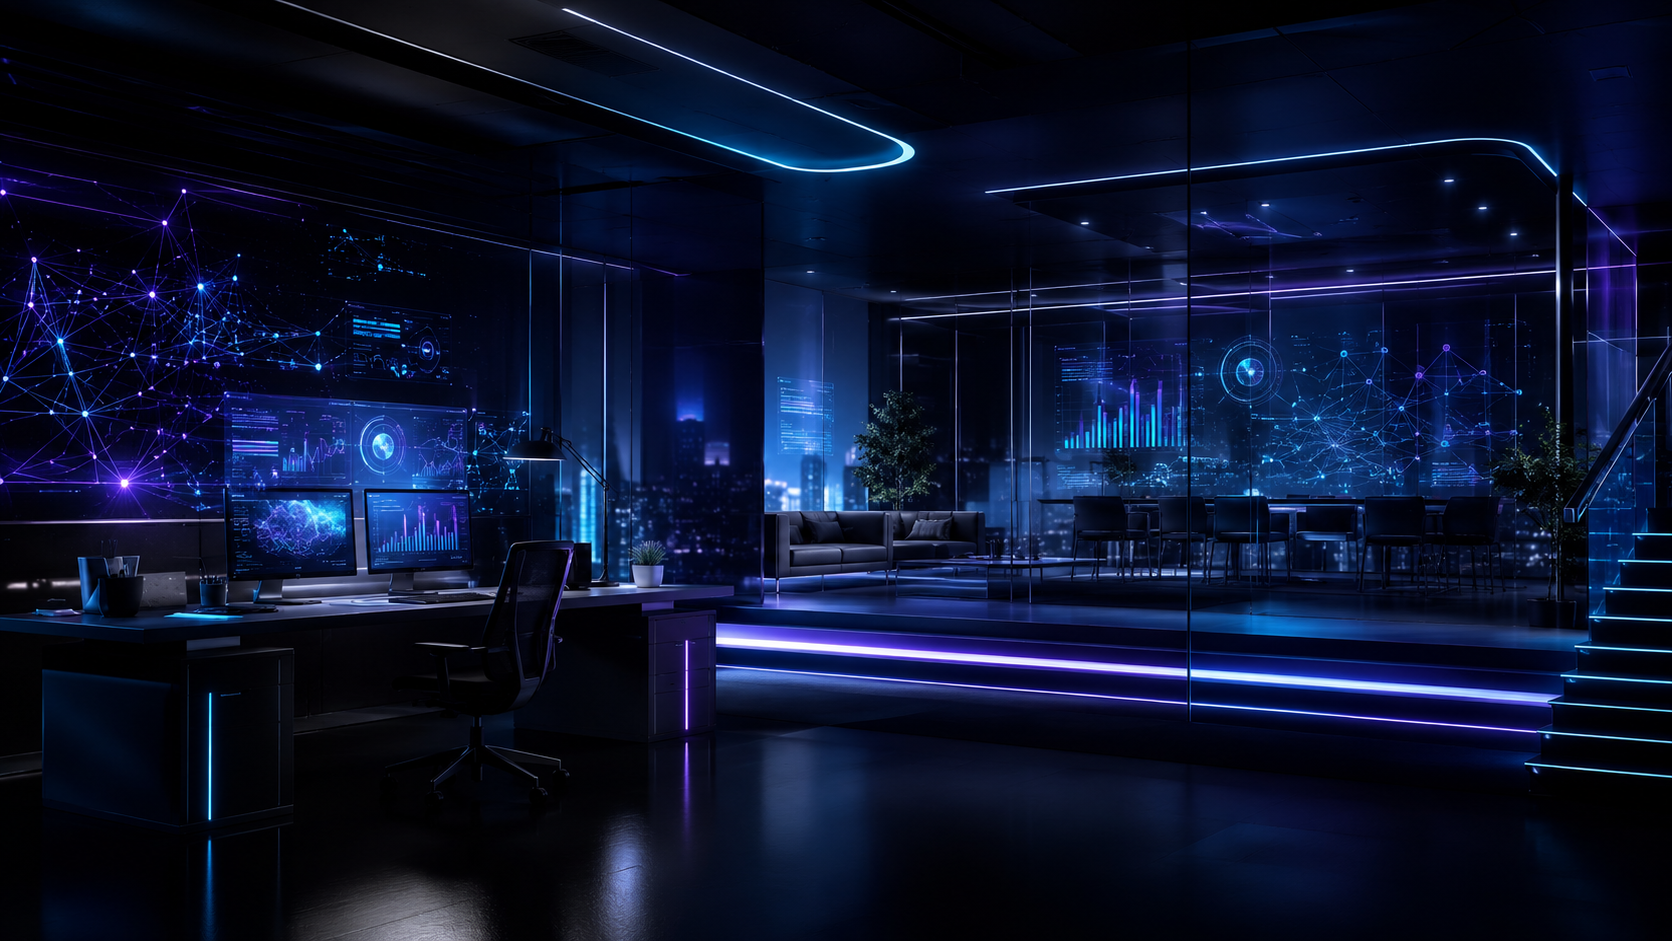
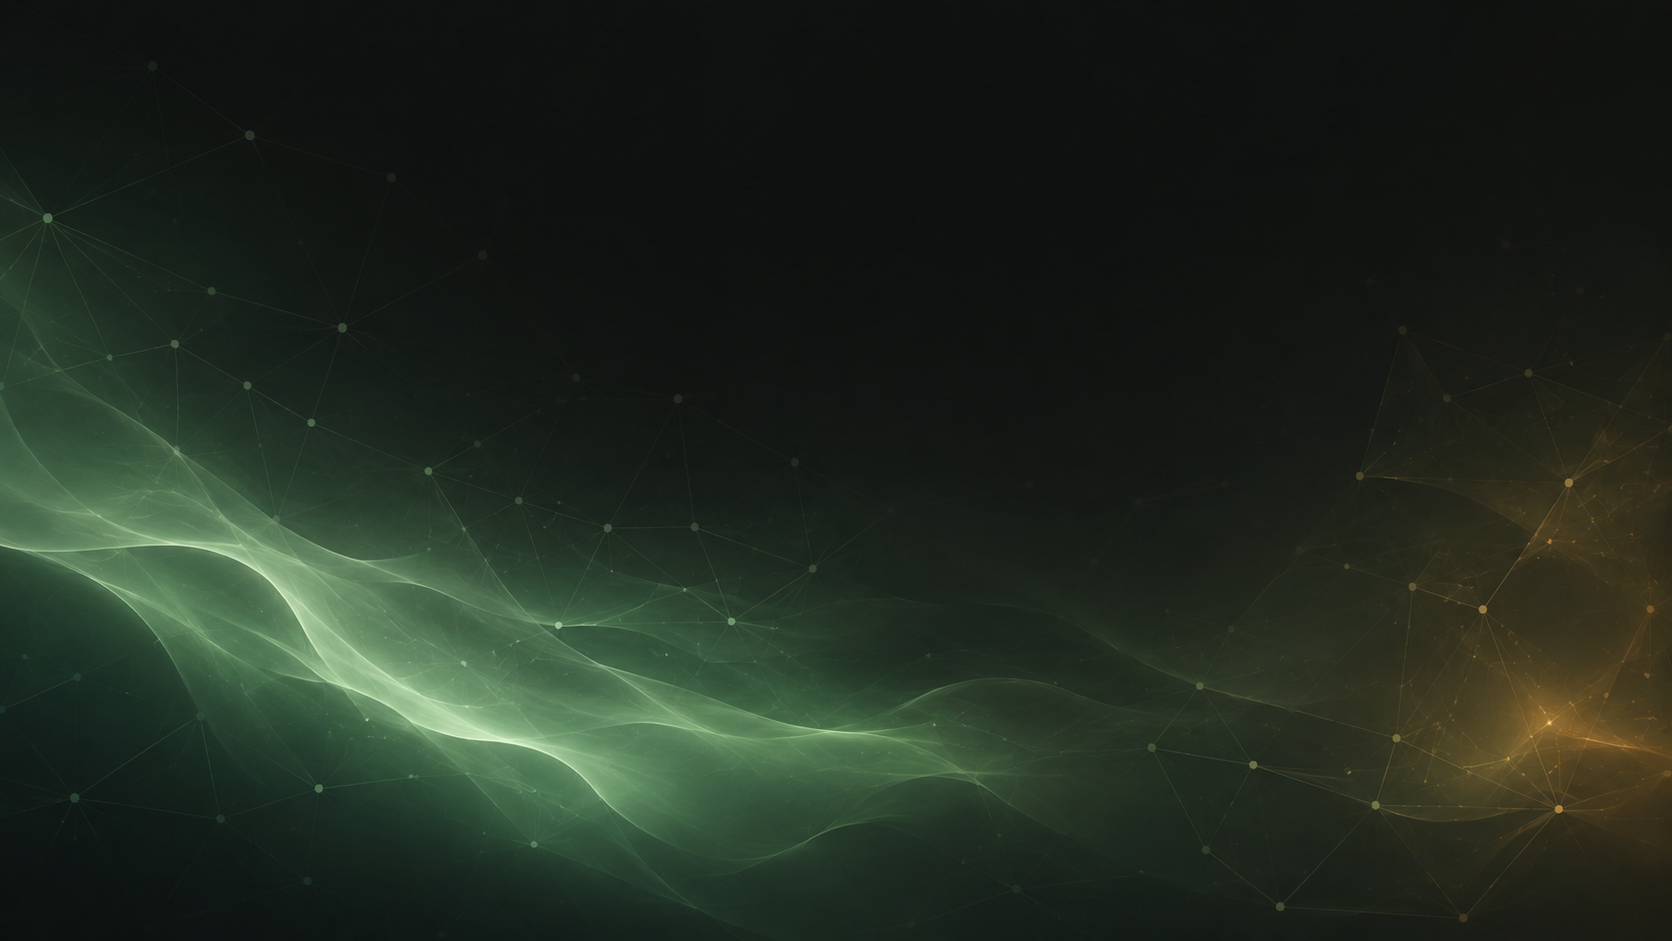
Show auth-bg on auth pages in dark mode

diff --git a/frontend/src/features/auth/OTPVerificationView.tsx b/frontend/src/features/auth/OTPVerificationView.tsx
@@ -131,6 +131,7 @@ export const OTPVerificationView: React.FC<OTPVerificationViewProps> = ({
 
   return (
     <div
+      data-login-page
       className="min-h-screen w-screen flex items-center justify-center bg-[var(--bg-canvas)] text-slate-100 relative overflow-hidden"
       style={{
         backgroundImage: `linear-gradient(to bottom, rgba(9,10,15,0.92), rgba(9,10,15,0.97)), url('/assets/images/auth-bg.png')`,

diff --git a/frontend/index.css b/frontend/index.css
@@ -1278,11 +1278,6 @@
   border-color: #80652E;
 }
 
-:root:not(.light) [data-login-page] {
-  background: #171A18 !important;
-  background-image: none !important;
-}
-
 :root:not(.light) [data-login-page] .blur-3xl {
   display: none;
 }
